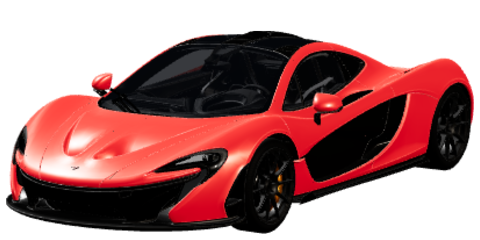
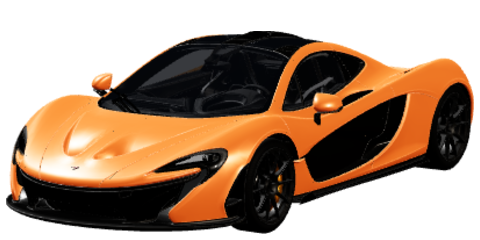
Niveau pilote +1 par Speedliste terminée (au retour au garage) avec animation, présentation des voitures débloquées (avant, côtés, arrière, vue d'ensemble), couleur propre à chaque voiture

diff --git a/index.html b/index.html
@@ -199,6 +199,50 @@
         #lobby .gx-tile.gx-pic.locked { color: #a39e96; }
         #lobby .gx-tile.gx-pic.locked img { filter: grayscale(0.85) brightness(0.45); }
         #lobby .gx-tile.gx-pic.locked .gx-lock { width: 22px; height: 22px; color: #f2f0ea; filter: drop-shadow(0 1px 3px rgba(0,0,0,0.9)); }
+        /* Animations : niveau supérieur, voiture débloquée */
+        #lobby .gx { transition: opacity 0.35s; }
+        #lobby.cine .gx { visibility: hidden; }
+        #lobby.cine #car-preview { cursor: default; }
+        #cinefade { position: absolute; inset: 0; z-index: 60; background: #000; opacity: 0; pointer-events: none; transition: opacity 0.26s; }
+        #cinefade.on { opacity: 1; }
+        #lvlfx { position: absolute; inset: 0; z-index: 55; display: flex; flex-direction: column; align-items: center; justify-content: center; text-align: center; color: #fff; font-family: var(--gx-cond); cursor: pointer;
+                 background: radial-gradient(circle at 50% 42%, rgba(70,48,8,0.6), rgba(0,0,0,0.88) 68%); transition: opacity 0.35s; }
+        #lvlfx[hidden], #unlockfx[hidden] { display: none; }
+        #lvlfx.out { opacity: 0; }
+        #lvlfx .lf-ring { position: relative; width: min(30vh, 250px); height: min(30vh, 250px); }
+        #lvlfx .lf-ring::before { content: ''; position: absolute; inset: -55%; border-radius: 50%; opacity: 0;
+                 background: repeating-conic-gradient(rgba(232,179,60,0.22) 0deg 5deg, transparent 5deg 15deg);
+                 -webkit-mask: radial-gradient(circle, #000 28%, transparent 68%); mask: radial-gradient(circle, #000 28%, transparent 68%); }
+        #lvlfx.on .lf-ring::before { animation: lfSpin 14s linear infinite, lfIn 0.7s 0.85s forwards; }
+        #lvlfx .lf-ring svg { position: absolute; inset: 0; width: 100%; height: 100%; transform: rotate(-90deg); }
+        #lvlfx .lf-ring circle { fill: rgba(0,0,0,0.35); stroke-width: 5; }
+        #lvlfx .lf-ring .bg { stroke: rgba(255,255,255,0.14); }
+        #lvlfx .lf-ring .fg { fill: none; stroke: var(--gx-gold); stroke-linecap: round; stroke-dasharray: 302; stroke-dashoffset: 302; filter: drop-shadow(0 0 6px rgba(232,179,60,0.8)); }
+        #lvlfx.on .lf-ring .fg { animation: lfRing 0.9s cubic-bezier(0.3, 0.7, 0.3, 1) forwards; }
+        #lf-num { position: absolute; inset: 0; display: grid; place-items: center; font: 600 min(14vh, 116px)/1 var(--gx-cond); text-shadow: 0 0 24px rgba(232,179,60,0.6); }
+        #lf-num.pop { animation: lfPop 0.6s cubic-bezier(0.2, 1.6, 0.4, 1); color: var(--gx-gold); }
+        #lvlfx .lf-k { margin: 3.2vh 0 0; font: 500 clamp(14px, 2.2vh, 22px)/1 var(--gx-cond); letter-spacing: 0.32em; text-transform: uppercase; color: var(--gx-gold); }
+        #lvlfx .lf-t { margin: 1.2vh 0 0; font: 600 clamp(34px, 7.5vh, 76px)/1 var(--gx-cond); text-transform: uppercase; }
+        #lvlfx .lf-sub { margin: 1.6vh 0 0; font: 500 clamp(15px, 2.4vh, 24px)/1.2 'Barlow', sans-serif; color: #d9d6d0; min-height: 1.2em; }
+        #lvlfx.on .lf-k, #lvlfx.on .lf-t, #lvlfx.on .lf-sub { opacity: 0; animation: lfUp 0.5s forwards; }
+        #lvlfx.on .lf-k { animation-delay: 0.9s; } #lvlfx.on .lf-t { animation-delay: 1.05s; } #lvlfx.on .lf-sub { animation-delay: 1.4s; }
+        @keyframes lfRing { to { stroke-dashoffset: 0; } }
+        @keyframes lfPop { 0% { transform: scale(0.3); opacity: 0; } 100% { transform: scale(1); opacity: 1; } }
+        @keyframes lfSpin { to { transform: rotate(360deg); } }
+        @keyframes lfIn { to { opacity: 1; } }
+        @keyframes lfUp { from { opacity: 0; transform: translateY(14px); } to { opacity: 1; transform: none; } }
+        #unlockfx { position: absolute; inset: 0; z-index: 55; pointer-events: none; color: #fff; font-family: var(--gx-cond); }
+        #unlockfx::before, #unlockfx::after { content: ''; position: absolute; left: 0; right: 0; height: 9vh; background: #000; }
+        #unlockfx::before { top: 0; } #unlockfx::after { bottom: 0; }
+        #unlockfx .uf-top { position: absolute; left: 0; right: 0; top: 11vh; text-align: center; text-shadow: 0 2px 10px rgba(0,0,0,0.8); }
+        #unlockfx .uf-k { margin: 0; font: 500 clamp(14px, 2.2vh, 22px)/1 var(--gx-cond); letter-spacing: 0.32em; text-transform: uppercase; color: var(--gx-gold); animation: lfUp 0.6s both; }
+        #uf-name { margin: 1vh 0 0; font: 600 clamp(30px, 6.5vh, 68px)/1 var(--gx-cond); text-transform: uppercase; animation: lfUp 0.6s 0.15s both; }
+        #uf-side { position: absolute; left: 5vw; bottom: 13vh; margin: 0; padding-left: 12px; border-left: 3px solid var(--gx-gold); font: 500 clamp(18px, 3vh, 30px)/1 var(--gx-cond); text-transform: uppercase; text-shadow: 0 2px 8px rgba(0,0,0,0.8); }
+        #uf-side:empty { display: none; }
+        #unlockfx .uf-bottom { position: absolute; left: 0; right: 0; bottom: 12vh; text-align: center; opacity: 0; transition: opacity 0.5s; }
+        #unlockfx.full .uf-bottom { opacity: 1; }
+        #uf-price { margin: 0 0 1.6vh; font: 500 clamp(15px, 2.4vh, 24px)/1.2 'Barlow', sans-serif; color: #f2f0ea; text-shadow: 0 2px 8px rgba(0,0,0,0.9); }
+        #uf-next { pointer-events: auto; cursor: pointer; padding: 1.1vh 3.2vw; border: 0; background: var(--gx-gold); color: #111; font: 600 clamp(15px, 2.3vh, 22px)/1 var(--gx-cond); text-transform: uppercase; letter-spacing: 0.08em; }
         #lobby .gx-id-rec { font: 500 clamp(9.8px, 1.4vh, 12.3px)/1.4 'Barlow', sans-serif; color: var(--gx-mute); }
         #lobby .gx-badge { position: relative; width: clamp(37.7px, 5.2vh, 52.5px); height: clamp(37.7px, 5.2vh, 52.5px); display: grid; place-items: center; border-radius: 50%; border: 3px dotted var(--gx-heat); box-shadow: inset 0 0 0 3px #0b0a09, inset 0 0 0 5px var(--gx-heat); font: 600 clamp(14.8px, 2.3vh, 23px)/1 var(--gx-cond); }
         #lobby #wins-progress { display: none; }
@@ -385,6 +429,18 @@
             <div class="gx-floor"></div><div class="gx-haze"></div>
         </div>
         <div id="car-preview" title="Faites glisser pour tourner la voiture"></div>
+        <div id="lvlfx" hidden>
+            <div class="lf-ring"><svg viewBox="0 0 110 110" aria-hidden="true"><circle class="bg" cx="55" cy="55" r="48"/><circle class="fg" cx="55" cy="55" r="48"/></svg><b id="lf-num">1</b></div>
+            <p class="lf-k">Niveau pilote</p>
+            <p class="lf-t">Niveau supérieur</p>
+            <p class="lf-sub" id="lf-sub"></p>
+        </div>
+        <div id="unlockfx" hidden>
+            <div class="uf-top"><p class="uf-k">Nouvelle voiture débloquée</p><h2 id="uf-name"></h2></div>
+            <p id="uf-side"></p>
+            <div class="uf-bottom"><p id="uf-price"></p><button type="button" id="uf-next">Continuer</button></div>
+        </div>
+        <div id="cinefade"></div>
         <div class="gx-vig" aria-hidden="true"></div>
         <div class="gx">
             <header class="gx-top">
@@ -918,7 +974,7 @@
         previewCamera.lookAt(0, 0.6, 0);
 
         // Légère oscillation autour du trois-quarts avant ; glisser à la souris pour tourner la voiture
-        let pPrev = Date.now(), pT = 0, userYaw = 0, dragging = false, lastX = 0;
+        let pPrev = Date.now(), pT = 0, userYaw = 0, dragging = false, lastX = 0, cine = null;
         previewContainer.addEventListener('pointerdown', (e) => { dragging = true; lastX = e.clientX; });
         window.addEventListener('pointerup', () => { dragging = false; });
         window.addEventListener('pointermove', (e) => {
@@ -934,6 +990,23 @@
             if(!dragging) pT += dt;
             camShift += (camShiftTarget - camShift) * Math.min(1, dt * 5);
             camDist += (camDistTarget - camDist) * Math.min(1, dt * 5);
+            if(cine) {   // animation de déblocage : plans de caméra autour de la voiture (avant de la voiture vers -z)
+                cine.t += dt;
+                const u = Math.min(1, cine.t / cine.dur), e = u * u * (3 - 2 * u), L = (a, b, k) => a + (b - a) * k;
+                if(cine.orbit) {
+                    const a = L(cine.orbit[0], cine.orbit[1], e), r = L(cine.r[0], cine.r[1], e);
+                    previewCamera.position.set(Math.sin(a) * r, L(cine.y[0], cine.y[1], e), -Math.cos(a) * r);
+                    previewCamera.lookAt(cine.l[0], cine.l[1], cine.l[2]);
+                } else {
+                    previewCamera.position.set(L(cine.p0[0], cine.p1[0], u), L(cine.p0[1], cine.p1[1], u), L(cine.p0[2], cine.p1[2], u));
+                    previewCamera.lookAt(L(cine.l0[0], cine.l1[0], u), L(cine.l0[1], cine.l1[1], u), L(cine.l0[2], cine.l1[2], u));
+                }
+                if(previewCamera.clearViewOffset) previewCamera.clearViewOffset();
+                previewCamera.updateProjectionMatrix();
+                previewCar.rotation.y = previewMirror.rotation.y = 0;
+                previewRenderer.render(previewScene, previewCamera);
+                return;
+            }
             previewCamera.position.set(0, 1.35, camDist);
             previewCamera.lookAt(0, 0.6, 0);
             applyViewOffset();
@@ -1222,16 +1295,21 @@
         try {
             const sm = localStorage.getItem('nfsDubaiMap'), sw = localStorage.getItem('nfsDubaiWx'), sl = localStorage.getItem('nfsDubaiLevel');
             const sc = parseInt(localStorage.getItem('nfsDubaiColor'), 10);
-            if(CAR_COLORS.some(o => o.c === sc)) carColor = sc;
+            if(CAR_COLORS.some(o => o.c === sc)) carColor = sc;   // ancienne couleur unique : reprise pour la SF90
         } catch (e) {}
         function setCarColor(car, hex) { if(car.bodyMat) { car.bodyMat.color.setHex(hex); car.bodyMat.emissive.setHex(hex); } }
+        function paintPreview(hex) { setCarColor(previewCar, hex); setCarColor(previewMirror, hex); }
+        function paintPlayer(hex) {
+            setCarColor(player, hex);
+            if(player.bodyMat) { player.bodyMat.color.convertSRGBToLinear(); player.bodyMat.emissive.convertSRGBToLinear(); }   // le monde est rendu en lumière linéaire
+        }
+        // Peinture de la voiture actuelle (page « Peinture ») : chaque voiture garde sa propre couleur
         function applyColor(hex) {
             carColor = hex;
-            setCarColor(previewCar, hex); setCarColor(previewMirror, hex); setCarColor(player, hex);
-            player.bodyMat.color.convertSRGBToLinear(); player.bodyMat.emissive.convertSRGBToLinear();   // le monde est rendu en lumière linéaire
-            store('nfsDubaiColor', String(hex));
+            carColors[carId] = hex; store('nfsCarColors', carColors);
+            if(previewId === carId) paintPreview(hex);
+            paintPlayer(hex);
         }
-        applyColor(carColor);
 
         // ====== VOITURES : modèles 3D (.glb) qui remplacent la voiture dessinée dès qu'ils sont chargés ======
         // Chaque fichier compte des centaines de morceaux : on les fusionne par matière (caisse, roues, étriers) pour garder peu d'appels de dessin.
@@ -1240,21 +1318,21 @@
         // Si le chargement échoue (page ouverte sans serveur, fichier absent), la voiture dessinée reste en place.
         // wheel / cal : nœuds ou matières des roues (tournent) et des étriers (braquent sans tourner) ; hide : morceaux ignorés
         // paint / tail / glass : matières de la peinture (couleur du garage), des feux arrière (freinage) et des vitres ; front : sens de l'avant dans le fichier
-        // price : prix en SP, lvl : niveau pilote requis pour l'acheter (la SF90 est offerte)
+        // price : prix en SP, lvl : niveau pilote qui la débloque (cadenas retiré, elle peut alors être achetée) ; la SF90 est offerte
         const CARS = [
             { id: 'sf90', price: 0, lvl: 1, name: 'Ferrari SF90 Spider', tag: 'Ferrari SF90', url: 'ferrari.glb', img: 'cars/sf90.png', len: 4.71, front: '+z',
               wheel: /Combined_Wheels|Wheel1A_3D/i, cal: /Calliper|Caliper/i, paint: /Paint_Material/, tail: /RED_GLASS/, glass: /Window/,
               credit: '« 2021 Ferrari SF90 Spider », licence CC BY-NC' },
-            { id: 'gt3', price: 12000, lvl: 2, name: 'Mercedes-AMG GT3', tag: 'AMG GT3', url: 'cars/amg-gt3.glb', img: 'cars/gt3.png', len: 4.75, front: '+z',
+            { id: 'gt3', price: 4000, lvl: 2, name: 'Mercedes-AMG GT3', tag: 'AMG GT3', url: 'cars/amg-gt3.glb', img: 'cars/gt3.png', len: 4.75, front: '+z',
               wheel: /^WHEEL_(LF|RF|LR|RR)$/, cal: /^Caliper_|^Disc_/, hide: /RIM_BLUR|RIM_.._BLUR/, paint: /^EXT_Carpaint_Inst/, tail: /EXT_Emissive_Light_Rear|EXT_Glass_Emissive_Rear/, glass: /^EXT_Windows$|^INT_Windows$|INT_Windshield|MI_INT_Glass/,
               credit: '« amg_evo_3 », licence CC BY-NC-SA' },
-            { id: 'p1', price: 25000, lvl: 4, name: 'McLaren P1', tag: 'McLaren P1', url: 'cars/p1.glb', img: 'cars/p1.png', len: 4.59, front: '+z',
+            { id: 'p1', price: 8000, lvl: 3, name: 'McLaren P1', tag: 'McLaren P1', url: 'cars/p1.glb', img: 'cars/p1.png', len: 4.59, front: '+z',
               wheel: /^WHEEL_(LF|RF|LR|RR)$/, cal: /^SUSP_|^DISC_/, paint: /^Carpaint$/, tail: /Taillights/, glass: /^Windows/,
               credit: '« McLaren P1 », licence CC BY' },
-            { id: 'svj', price: 40000, lvl: 6, name: 'Lamborghini Aventador SVJ', tag: 'Aventador SVJ', url: 'cars/aventador.glb', img: 'cars/svj.png', len: 4.94, front: '+z',
+            { id: 'svj', price: 15000, lvl: 4, name: 'Lamborghini Aventador SVJ', tag: 'Aventador SVJ', url: 'cars/aventador.glb', img: 'cars/svj.png', len: 4.94, front: '+z',
               wheel: /^Circle\.?002/, cal: /plaquette_de_frein/, paint: /^CARROSSERIE$/, tail: /GlassRedLights/, glass: /^GLASS$/,
               credit: '« Lamborghini Aventador SVJ - SC20 Carbon Edition », licence CC BY-NC' },
-            { id: 'veneno', price: 60000, lvl: 8, name: 'Lamborghini Veneno', tag: 'Veneno', url: 'cars/veneno.glb', img: 'cars/veneno.png', len: 5.02, front: '+z',
+            { id: 'veneno', price: 25000, lvl: 5, name: 'Lamborghini Veneno', tag: 'Veneno', url: 'cars/veneno.glb', img: 'cars/veneno.png', len: 5.02, front: '+z',
               wheel: /Wheel1A_3D/i, cal: /Calliper|Caliper/i, paint: /Paint_Material/, tail: null, glass: /Window/,
               credit: '« 2013 Lamborghini Veneno », licence CC BY' },
         ];
@@ -1263,6 +1341,12 @@
         { const o = loadJSON('nfsCarsOwned', []); if(Array.isArray(o)) o.forEach(id => { if(CARS.some(c => c.id === id)) carsOwned.add(id); }); }
         let carId = 'sf90';
         try { const s = localStorage.getItem('nfsCar'); if(carsOwned.has(s)) carId = s; } catch (e) {}
+        // Couleur attribuée à chaque voiture (modifiable voiture par voiture dans « Peinture »)
+        const CAR_DEF_COLOR = { sf90: 0xe3262e, gt3: 0xeeeee8, p1: 0xf0661c, svj: 0x13a37a, veneno: 0x6f747c };
+        const carColors = loadJSON('nfsCarColors', {});
+        if(carColors.sf90 === undefined && carColor !== RED) carColors.sf90 = carColor;
+        const colorOf = (id) => CAR_COLORS.some(o => o.c === carColors[id]) ? carColors[id] : CAR_DEF_COLOR[id];
+        carColor = colorOf(carId);
         const carDef = (id) => CARS.find(c => c.id === id) || CARS[0];
         function prepCar(gltf, D) {
             const root = gltf.scene;
@@ -1441,7 +1525,7 @@
             dressCar(previewCar, F, { linear: true, scale: pv });
             dressCar(previewMirror, F, { linear: true, scale: pv, mirror: true });
             previewId = F.D.id;
-            applyColor(carColor);
+            paintPreview(colorOf(F.D.id));
         }
         // Voiture du joueur dans le monde
         function setPlayerCar(F) {
@@ -1455,7 +1539,7 @@
             player.children.forEach(o => { if(o.isSpotLight) { const sd = si++ ? 1 : -1; o.position.set(sd * 0.62, H * 0.52, F.box.min.z + 0.1); o.target.position.set(sd * 0.6, 0, F.box.min.z - 33); } });
             flames.forEach((s, k) => s.position.set((k ? 1 : -1) * 0.16, H * 0.47, F.box.max.z + 0.12));
             player.exhZ = F.box.max.z + 0.12;
-            applyColor(carColor);
+            paintPlayer(colorOf(F.D.id));
             console.log(F.D.name + ' chargée : ' + F.parts.length + ' lots, rayon de roue ' + F.r.toFixed(3) + ' m');
         }
         { const e = document.getElementById('gx-carname'); if(e) e.textContent = carDef(carId).tag; }
@@ -1506,12 +1590,10 @@
             { id: 'pneus', name: 'Pneus', stat: 2, what: 'Adhérence en virage +7 %', cost: [400, 800, 1400, 2200, 3200] },
             { id: 'nitro', name: 'Nitro', stat: 3, what: 'Recharge du nitro +30 %', cost: [300, 600, 1100, 1700, 2500] }
         ];
-        let sp = 0, xp = 0;
-        try { sp = Math.max(0, parseInt(localStorage.getItem('nfsSP'), 10) || 0); xp = Math.max(sp, parseInt(localStorage.getItem('nfsXP'), 10) || 0); } catch (e) {}
-        // Niveau pilote : monte avec tous les SP gagnés depuis le début (dépenser des SP ne le fait pas baisser).
-        // Niveau L atteint à 1 250 × L × (L − 1) SP : 2 = 2 500, 3 = 7 500, 4 = 15 000, 6 = 37 500, 8 = 70 000…
-        const lvlXP = (L) => 1250 * L * (L - 1);
-        const pilotLvl = () => { let L = 1; while(xp >= lvlXP(L + 1)) L++; return L; };
+        let sp = 0, pLvl = 1;
+        try { sp = Math.max(0, parseInt(localStorage.getItem('nfsSP'), 10) || 0); pLvl = Math.max(1, parseInt(localStorage.getItem('nfsLvl'), 10) || 1); } catch (e) {}
+        // Niveau pilote : +1 chaque fois qu'une Speedliste est terminée (tous ses objectifs), compté au retour au garage
+        const pilotLvl = () => pLvl;
         const slState = loadJSON('nfsSpeedliste', {});
         if(!SPEEDLISTS.some(l => l.id === slState.cur)) slState.cur = SPEEDLISTS[0].id;
         if(!slState.done || typeof slState.done !== 'object') slState.done = {};
@@ -1549,20 +1631,13 @@
 
         function renderSP() {
             $('lobby-sp').textContent = fmtSP(sp); $('gx-heat').textContent = heat();
-            const L = pilotLvl(), a = lvlXP(L), b = lvlXP(L + 1);
-            $('lobby-lvl').textContent = L; $('lvl-bar').style.width = (100 * (xp - a) / (b - a)).toFixed(1) + '%';
-            $('lobby-lvl-box').title = 'Niveau pilote ' + L + ' : ' + fmtSP(xp) + ' / ' + fmtSP(b) + ' SP gagnés';
+            const l = curList(), n = doneCount(l);
+            $('lobby-lvl').textContent = pLvl; $('lvl-bar').style.width = (100 * n / l.missions.length).toFixed(1) + '%';
+            $('lobby-lvl-box').title = 'Niveau pilote ' + pLvl + ' : termine la Speedliste « ' + l.name + ' » (' + n + ' / ' + l.missions.length + ') pour passer au niveau ' + (pLvl + 1);
             if(screen === 'perf') renderPerf();
             if(screen === 'cars') renderCars();
         }
-        function addSP(n) {
-            const L0 = pilotLvl();
-            sp += n; mt.raceSP += n; store('nfsSP', String(sp));
-            if(n > 0) { xp += n; store('nfsXP', String(xp)); }
-            const L = pilotLvl();
-            if(L > L0) { const nc = CARS.filter(c => c.lvl > L0 && c.lvl <= L); toast('Niveau pilote ' + L, nc.length ? 'À acheter au garage : ' + nc.map(c => c.name).join(', ') : 'Nouveau niveau atteint'); }
-            renderSP();
-        }
+        function addSP(n) { sp += n; mt.raceSP += n; store('nfsSP', String(sp)); renderSP(); }
 
         function statsHTML(previewKey) {
             const D = carDef(screen === 'cars' ? CARS[carSel].id : carId), sp1 = D.name.indexOf(' ');
@@ -1613,7 +1688,7 @@
                 carsOwned.add(D.id); store('nfsCarsOwned', [...carsOwned]);
                 $('lobby-sp').textContent = fmtSP(sp);
             }
-            carId = D.id; store('nfsCar', D.id);
+            carId = D.id; store('nfsCar', D.id); carColor = colorOf(carId);
             $('gx-carname').textContent = D.tag;
             loadCar(D.id).then(setPlayerCar).catch(() => {});
             go('home');
@@ -1622,10 +1697,11 @@
             $('car-stats').innerHTML = statsHTML();
             const L = pilotLvl();
             $('car-tiles').innerHTML = CARS.map((D, i) => { const own = carsOwned.has(D.id);
-                return '<button type="button" class="gx-tile gx-pic' + (own ? '' : ' locked') + (i === carSel ? ' sel' : '') + '" data-i="' + i + '" aria-label="' + D.name + (own ? '' : ', verrouillée') + '">'
+                const lock = !own && L < D.lvl;
+                return '<button type="button" class="gx-tile gx-pic' + (lock ? ' locked' : '') + (i === carSel ? ' sel' : '') + '" data-i="' + i + '" aria-label="' + D.name + (lock ? ', verrouillée' : '') + '">'
                 + '<img src="' + D.img + '" alt="" draggable="false">'
-                + (own ? '' : '<svg class="gx-lock" viewBox="0 0 24 24" aria-hidden="true">' + ICONS.lock + '</svg>'
-                    + '<span class="gx-price' + (L < D.lvl ? ' no' : '') + '">' + fmtSP(D.price) + ' SP · Niv. ' + D.lvl + '</span>')
+                + (lock ? '<svg class="gx-lock" viewBox="0 0 24 24" aria-hidden="true">' + ICONS.lock + '</svg>' : '')
+                + (own ? '' : '<span class="gx-price' + (lock ? ' no' : '') + '">' + fmtSP(D.price) + ' SP' + (lock ? ' · Niv. ' + D.lvl : '') + '</span>')
                 + '<span class="gx-tag">' + D.tag + (D.id === carId ? ' ✓' : '') + '</span></button>'; }).join('');
             previewSel();
             renderInfo();
@@ -1721,8 +1797,82 @@
             else if(screen === 'paint') go('home');
             else if(screen === 'settings') changeSetting(0);
         }
+        // ====== Animations du garage : niveau supérieur, puis une présentation par voiture débloquée ======
+        let fx = null;
+        const sleep = (ms) => new Promise(r => setTimeout(r, ms));
+        function fxNext() { if(fx && fx.skip) { const f = fx.skip; fx.skip = null; f(); } }
+        const fxWait = (ms) => new Promise(r => { const id = setTimeout(() => { if(fx) fx.skip = null; r(); }, ms); fx.skip = () => { clearTimeout(id); r(); }; });
+        const fade = async (on) => { $('cinefade').classList.toggle('on', on); await sleep(280); };
+        // Au retour au garage : les Speedlistes terminées font monter le niveau, puis repartent de zéro (on peut les rejouer)
+        function checkLevelUp() {
+            const n = slState.lvlUp || 0;
+            if(!n || fx) return;
+            const from = pLvl;
+            pLvl += n; store('nfsLvl', String(pLvl));
+            SPEEDLISTS.forEach(l => { if(l.missions.every(m => isDone(l, m))) { l.missions.forEach(m => { delete slState.done[l.id + ':' + m.id]; }); delete slState.bonus[l.id]; } });
+            slState.lvlUp = 0; store('nfsSpeedliste', slState);
+            renderSP(); renderSpeedlist(); showBadge();
+            playLevelUp(from, pLvl, CARS.filter(c => c.lvl > from && c.lvl <= pLvl));
+        }
+        async function playLevelUp(from, to, cars) {
+            fx = {};
+            $('lobby').classList.add('cine');
+            const box = $('lvlfx'), num = $('lf-num');
+            num.textContent = from; num.classList.remove('pop');
+            $('lf-sub').textContent = cars.length ? (cars.length > 1 ? cars.length + ' nouvelles voitures débloquées' : 'Nouvelle voiture débloquée : ' + cars[0].name) : 'Speedliste terminée';
+            box.hidden = false; box.classList.remove('on', 'out'); void box.offsetWidth; box.classList.add('on');
+            await sleep(850);
+            num.textContent = to; void num.offsetWidth; num.classList.add('pop');
+            await fxWait(3000);
+            box.classList.add('out'); await sleep(360); box.hidden = true; box.classList.remove('on', 'out');
+            for(const D of cars) await playUnlock(D);
+            if(cars.length) {   // retour à la voiture du joueur
+                cine = null;
+                if(previewId !== carId) { try { showPreview(await loadCar(carId)); } catch (e) {} }
+                await fade(false);
+            }
+            $('lobby').classList.remove('cine');
+            fx = null;
+            if(screen === 'cars') renderCars();
+        }
+        // Présentation d'une voiture débloquée : avant, côté gauche, arrière, côté droit, puis toute la voiture
+        async function playUnlock(D) {
+            await fade(true);
+            let F = null;
+            try { F = await loadCar(D.id); } catch (e) {}
+            if(!F) return;
+            showPreview(F);
+            const box = $('unlockfx');
+            $('uf-name').textContent = D.name;
+            $('uf-price').textContent = carsOwned.has(D.id) ? '' : 'Disponible dans « Changer de voiture » : ' + fmtSP(D.price) + ' SP';
+            box.classList.remove('full'); box.hidden = false;
+            const S = [
+                ['Avant', [1.6, 0.85, -8.4], [-1.6, 0.75, -7.6], [0, 0.6, 0], [0, 0.55, 0]],
+                ['Côté gauche', [-8.8, 1.0, -2.2], [-8.8, 0.85, 2.2], [0, 0.55, -1.4], [0, 0.55, 1.4]],
+                ['Arrière', [-1.6, 1.15, 8.4], [1.6, 0.9, 7.6], [0, 0.6, 0], [0, 0.55, 0]],
+                ['Côté droit', [8.8, 1.0, 2.2], [8.8, 0.85, -2.2], [0, 0.55, 1.4], [0, 0.55, -1.4]]
+            ];
+            for(const [label, p0, p1, l0, l1] of S) {
+                $('uf-side').textContent = label;
+                cine = { t: 0, dur: 1.9, p0, p1, l0, l1 };
+                await fade(false); await fxWait(1650); await fade(true);
+            }
+            // Toute la voiture : la caméra recule en tournant jusqu'au trois-quarts avant
+            $('uf-side').textContent = '';
+            cine = { t: 0, dur: 3.2, orbit: [-2.3, 0.62], r: [7.5, 12.5], y: [1.0, 2.4], l: [0, 0.55, 0] };
+            box.classList.add('full');
+            await fade(false);
+            await fxWait(600000);   // jusqu'à « Continuer » (ou Entrée)
+            await fade(true);
+            box.hidden = true; box.classList.remove('full');
+        }
+        $('lvlfx').onclick = fxNext;
+        $('uf-next').onclick = fxNext;
+        (function waitSplash() { if(splashOn) return setTimeout(waitSplash, 300); setTimeout(checkLevelUp, 500); })();
+
         // Clavier du garage : flèches ou ZQSD, Entrée, Échap, A / E pour changer de page
         function garageKey(kn) {
+            if(fx) { if(kn === 'Enter' || kn === 'Escape' || kn === ' ' || kn === 'Backspace') fxNext(); return true; }
             const up = kn === 'ArrowUp' || kn === 'z', down = kn === 'ArrowDown' || kn === 's';
             const left = kn === 'ArrowLeft' || kn === 'q', right = kn === 'ArrowRight' || kn === 'd';
             const step = left ? -1 : right ? 1 : 0;
@@ -1788,6 +1938,8 @@
                 slState.bonus[l.id] = true;
                 addSP(LIST_BONUS);
                 toast('Speedliste terminée', l.name, '+' + fmtSP(LIST_BONUS) + ' SP');
+                slState.lvlUp = (slState.lvlUp || 0) + 1;   // le niveau monte au retour au garage
+                toast('Niveau ' + (pLvl + slState.lvlUp) + ' à débloquer', 'Rentre au garage pour monter de niveau');
             }
             store('nfsSpeedliste', slState);
             renderSpeedlist(); renderHudList(); showBadge();
@@ -1826,8 +1978,8 @@
         resetBtn.type = 'button';
         resetBtn.textContent = 'Réinitialiser ma progression';
         resetBtn.onclick = () => {
-            try { ['nfsDubaiWins', 'nfsDubaiBest', 'nfsSP', 'nfsXP', 'nfsCarsOwned', 'nfsCar', 'nfsSpeedliste', 'nfsUpgrades', 'nfsRadars'].forEach(k => localStorage.removeItem(k)); } catch (e) {}
-            sp = 0; xp = 0; carsOwned.clear(); carsOwned.add('sf90');
+            try { ['nfsDubaiWins', 'nfsDubaiBest', 'nfsSP', 'nfsLvl', 'nfsCarsOwned', 'nfsCar', 'nfsSpeedliste', 'nfsUpgrades', 'nfsRadars'].forEach(k => localStorage.removeItem(k)); } catch (e) {}
+            sp = 0; pLvl = 1; slState.lvlUp = 0; carsOwned.clear(); carsOwned.add('sf90');
             if(carId !== 'sf90') { carId = 'sf90'; $('gx-carname').textContent = carDef('sf90').tag; loadCar('sf90').then(F => { setPlayerCar(F); if(screen !== 'cars') showPreview(F); }).catch(() => {}); } slState.done = {}; slState.bonus = {}; Object.keys(upLv).forEach(k => { upLv[k] = 0; });
             Object.keys(radarBest).forEach(k => { delete radarBest[k]; });
             PERF = perfOf();

diff --git a/README.md b/README.md
@@ -59,7 +59,7 @@ Dans le garage : croix ou stick pour naviguer, Croix / A pour valider, Rond / B 
 - **Planques** : 6 planques. En quittant le garage, tu pars d'une planque tirée au hasard, sur le parvis face à la route. Pour rentrer au garage, touche la ligne verte peinte au sol devant la porte d'une autre planque (ou de la même, une fois que tu t'en es éloigné de 70 m).
 - **GPS** : la mini-carte montre le relief, les forêts, les lacs, les villes et les routes, et trace en vert l'itinéraire par la route jusqu'à la planque la plus proche. Elle dézoome quand tu vas vite.
 - **Interface** : mini-carte GPS, compte-tours avec rapport et vitesse, jauge de nitro, état de la voiture, SP, série en cours et objectifs de la Speedliste.
-- **5 voitures** (onglet « Changer de voiture » du garage, une vignette par modèle) : la Ferrari est offerte, les autres sont verrouillées (cadenas) et s'achètent en SP à partir d'un **niveau pilote** : Mercedes-AMG GT3 12 000 SP (niveau 2), McLaren P1 25 000 SP (niveau 4), Aventador SVJ 40 000 SP (niveau 6), Veneno 60 000 SP (niveau 8). Le niveau pilote monte avec tous les SP gagnés depuis le début (dépenser ne le fait pas baisser) : niveau 2 à 2 500 SP, 3 à 7 500, 4 à 15 000, 5 à 25 000, 6 à 37 500, 7 à 52 500, 8 à 70 000. La voiture survolée s'affiche en 3D, `Entrée` ou un 2e clic l'achète ou la choisit, et le choix est mémorisé. Modèles 3D de Sketchfab, crédit obligatoire :
+- **5 voitures** (onglet « Changer de voiture » du garage, une vignette par modèle) : la Ferrari est offerte, les autres ont un cadenas jusqu'au **niveau pilote** qui les débloque, puis s'achètent en SP : Mercedes-AMG GT3 (niveau 2, 4 000 SP), McLaren P1 (niveau 3, 8 000 SP), Aventador SVJ (niveau 4, 15 000 SP), Veneno (niveau 5, 25 000 SP). Le niveau pilote monte de 1 chaque fois qu'une Speedliste est terminée (tous ses objectifs), au retour au garage : une animation montre le nouveau niveau, puis chaque voiture débloquée est présentée (avant, côté gauche, arrière, côté droit, puis toute la voiture). La Speedliste terminée repart alors de zéro pour pouvoir être rejouée. Chaque voiture a sa propre couleur (SF90 rouge, AMG blanc sur sa déco rouge, P1 orange, SVJ vert, Veneno gris), modifiable voiture par voiture dans « Peinture ». La voiture survolée s'affiche en 3D, `Entrée` ou un 2e clic l'achète ou la choisit, et le choix est mémorisé. Modèles 3D de Sketchfab, crédit obligatoire :
   - **Ferrari SF90 Spider** : `ferrari.glb`, « 2021 Ferrari SF90 Spider », licence **CC BY-NC** ;
   - **Lamborghini Aventador SVJ** : `cars/aventador.glb`, « Lamborghini Aventador SVJ - SC20 Carbon Edition », licence **CC BY-NC** ;
   - **Lamborghini Veneno** : `cars/veneno.glb`, « 2013 Lamborghini Veneno », licence **CC BY** ;
